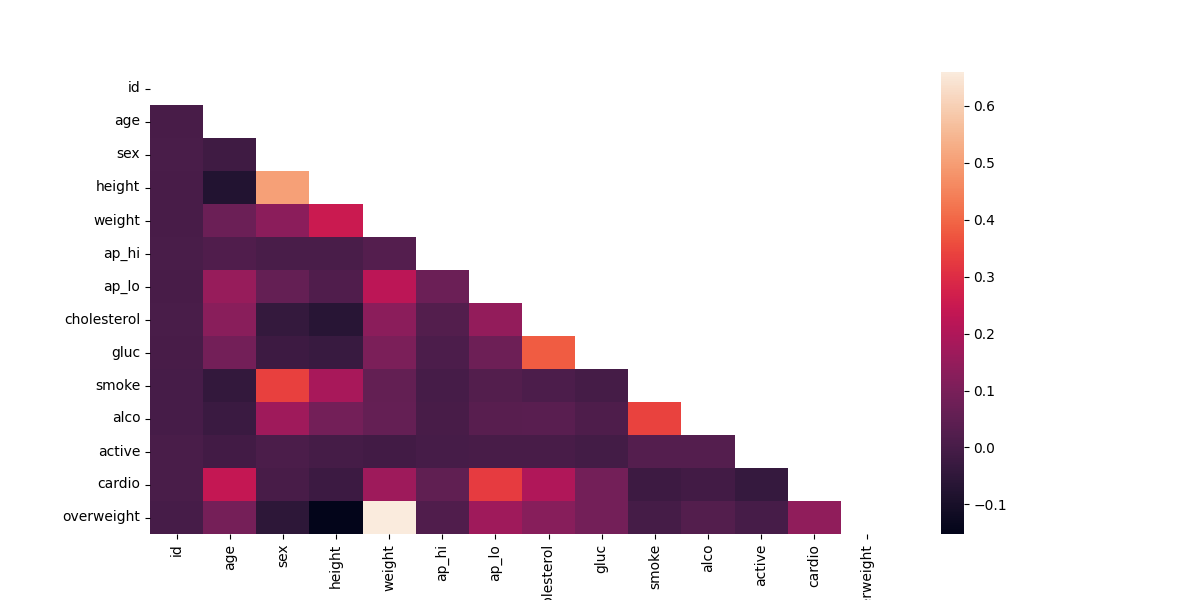
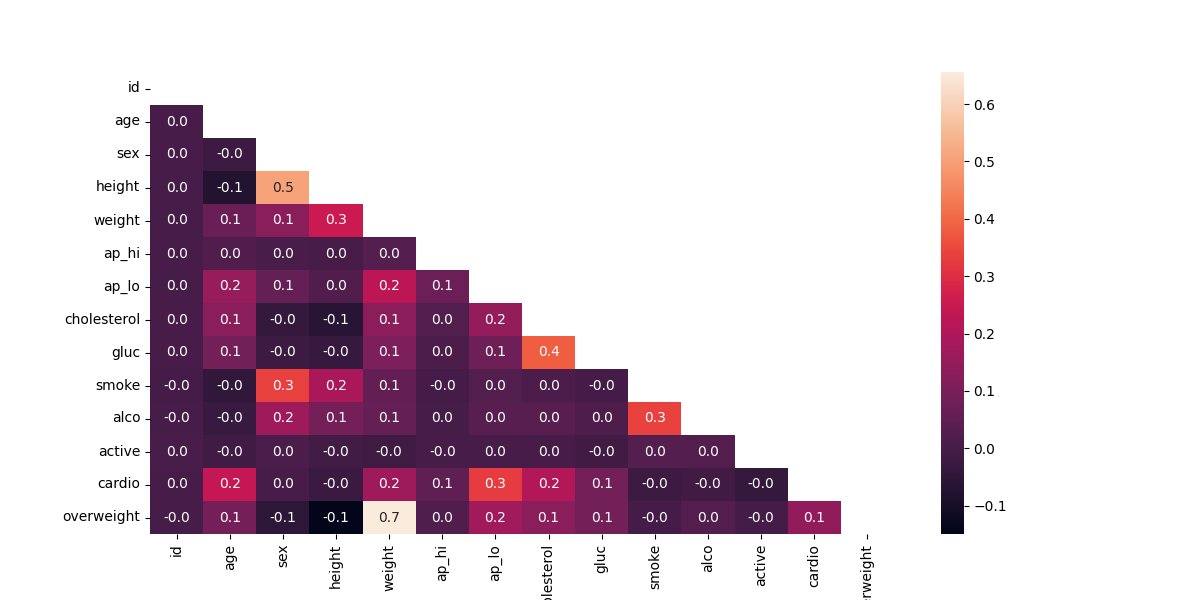
completed, i think

diff --git a/medical_data_visualizer.py b/medical_data_visualizer.py
@@ -55,11 +55,10 @@ def draw_cat_plot():
 def draw_heat_map():
     # 11
     # df_heat = None
-    df_heat = df[df['ap_lo'] <= df['ap_hi']]
-    df_heat = df_heat[df_heat['height'] <= df_heat['height'].quantile(0.9725)]
-    df_heat = df_heat[df_heat['weight'] >= df_heat['weight'].quantile(0.025)]
-    df_heat = df_heat[df_heat['weight'] <= df_heat['weight'].quantile(0.9725)]
-    df_heat = df_heat[df_heat['height'] >= df_heat['height'].quantile(0.025)]
+    cholesterol_mask = df['ap_lo'] <= df['ap_hi']
+    height_mask = (df['height'] <= df['height'].quantile(0.975)) & (df['height'] >= df['height'].quantile(0.025))
+    weight_mask = (df['weight'] >= df['weight'].quantile(0.025)) & (df['weight'] <= df['weight'].quantile(0.975))
+    df_heat = df[cholesterol_mask & height_mask & weight_mask]
 
 
     # 12
@@ -77,7 +76,8 @@ def draw_heat_map():
     fig, ax = plt.subplots(figsize=(12, 6))
 
     # 15
-    sns.heatmap(corr, mask=mask)
+    sns.heatmap(corr, mask=mask, annot=True, fmt='.1f')
+    # sns.heatmap(corr, mask=mask, annot=True)
 
 
     # 16
